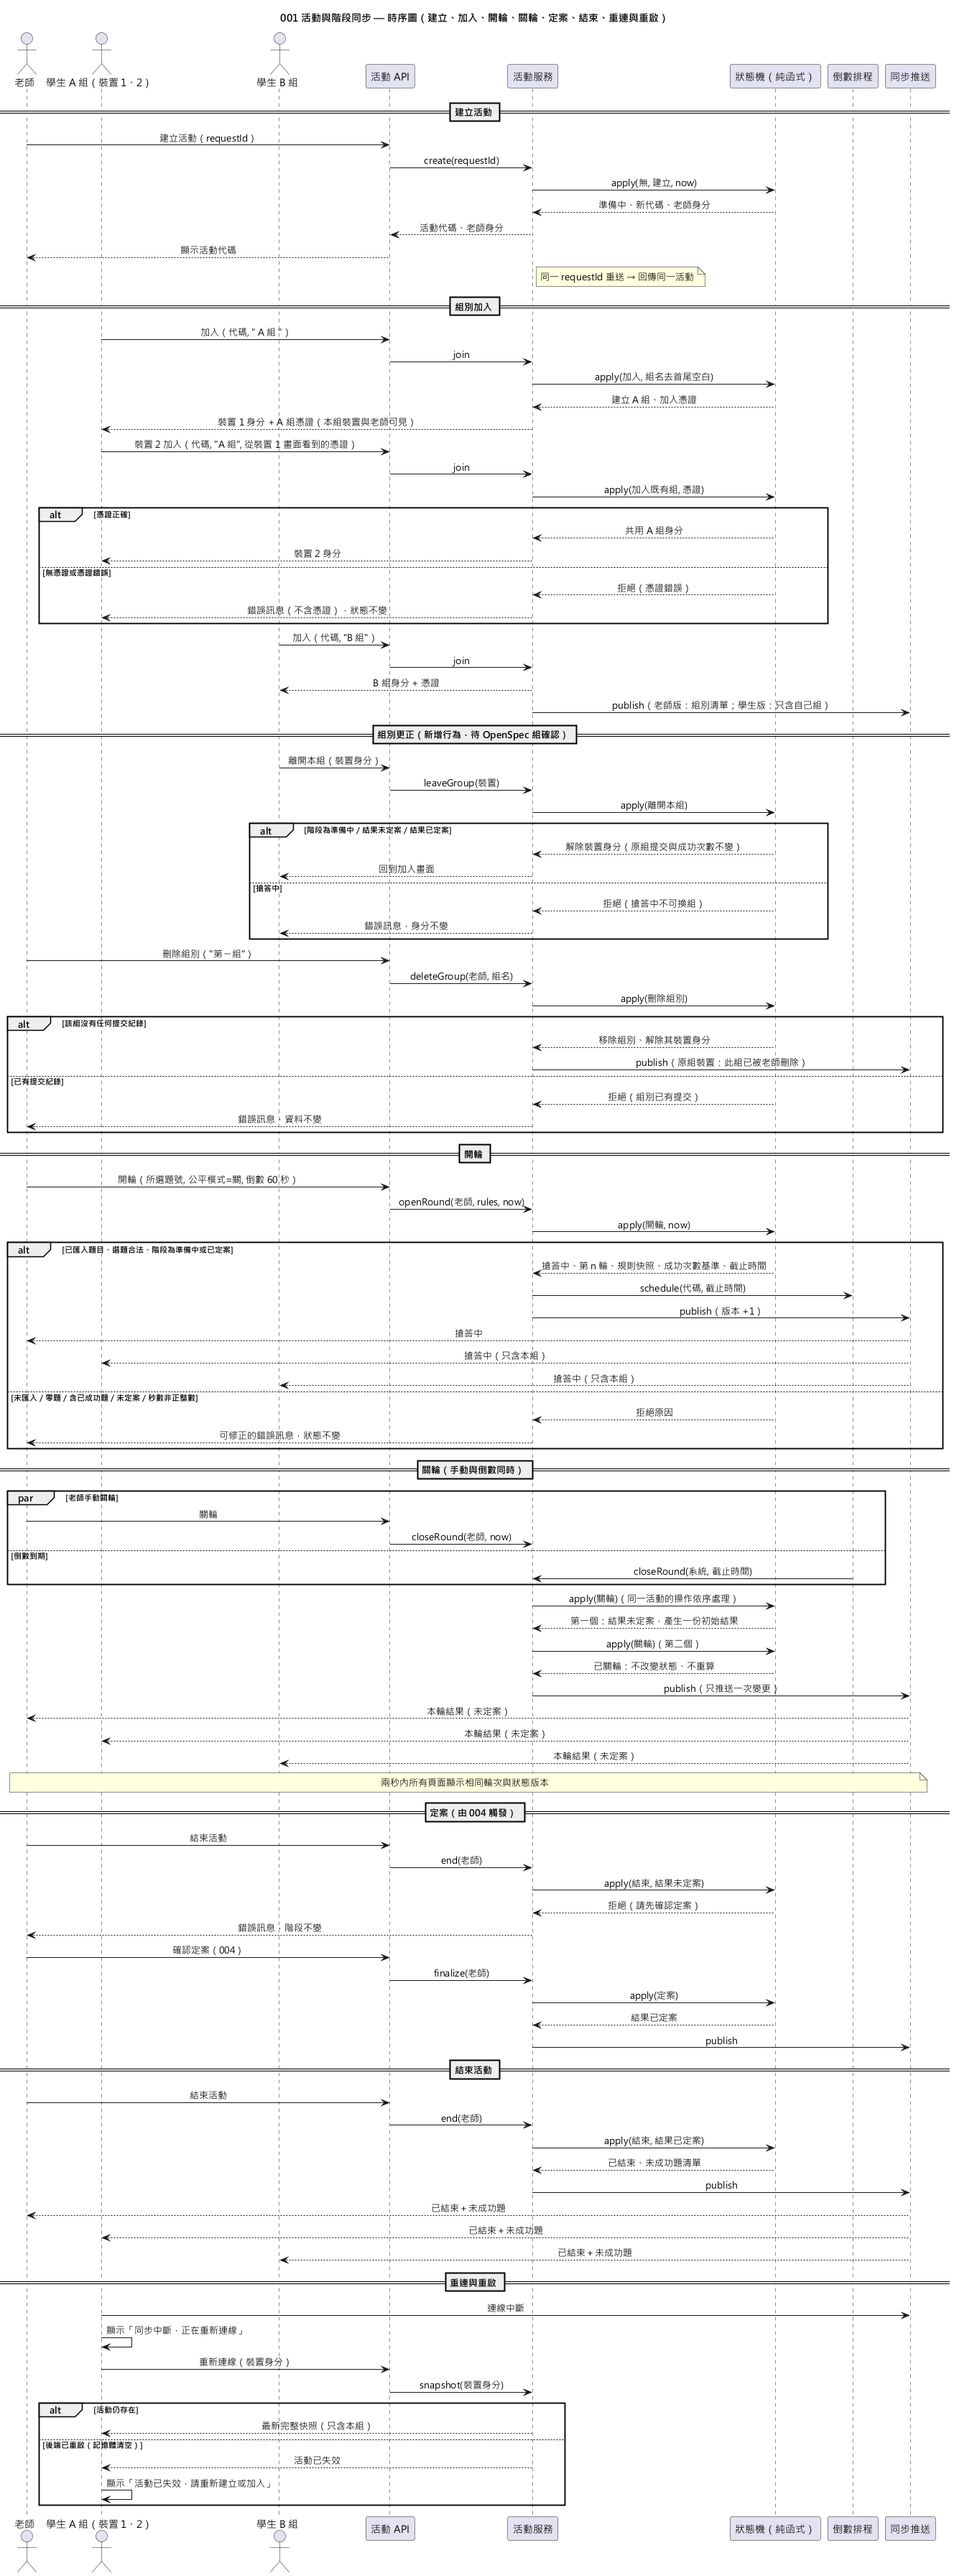
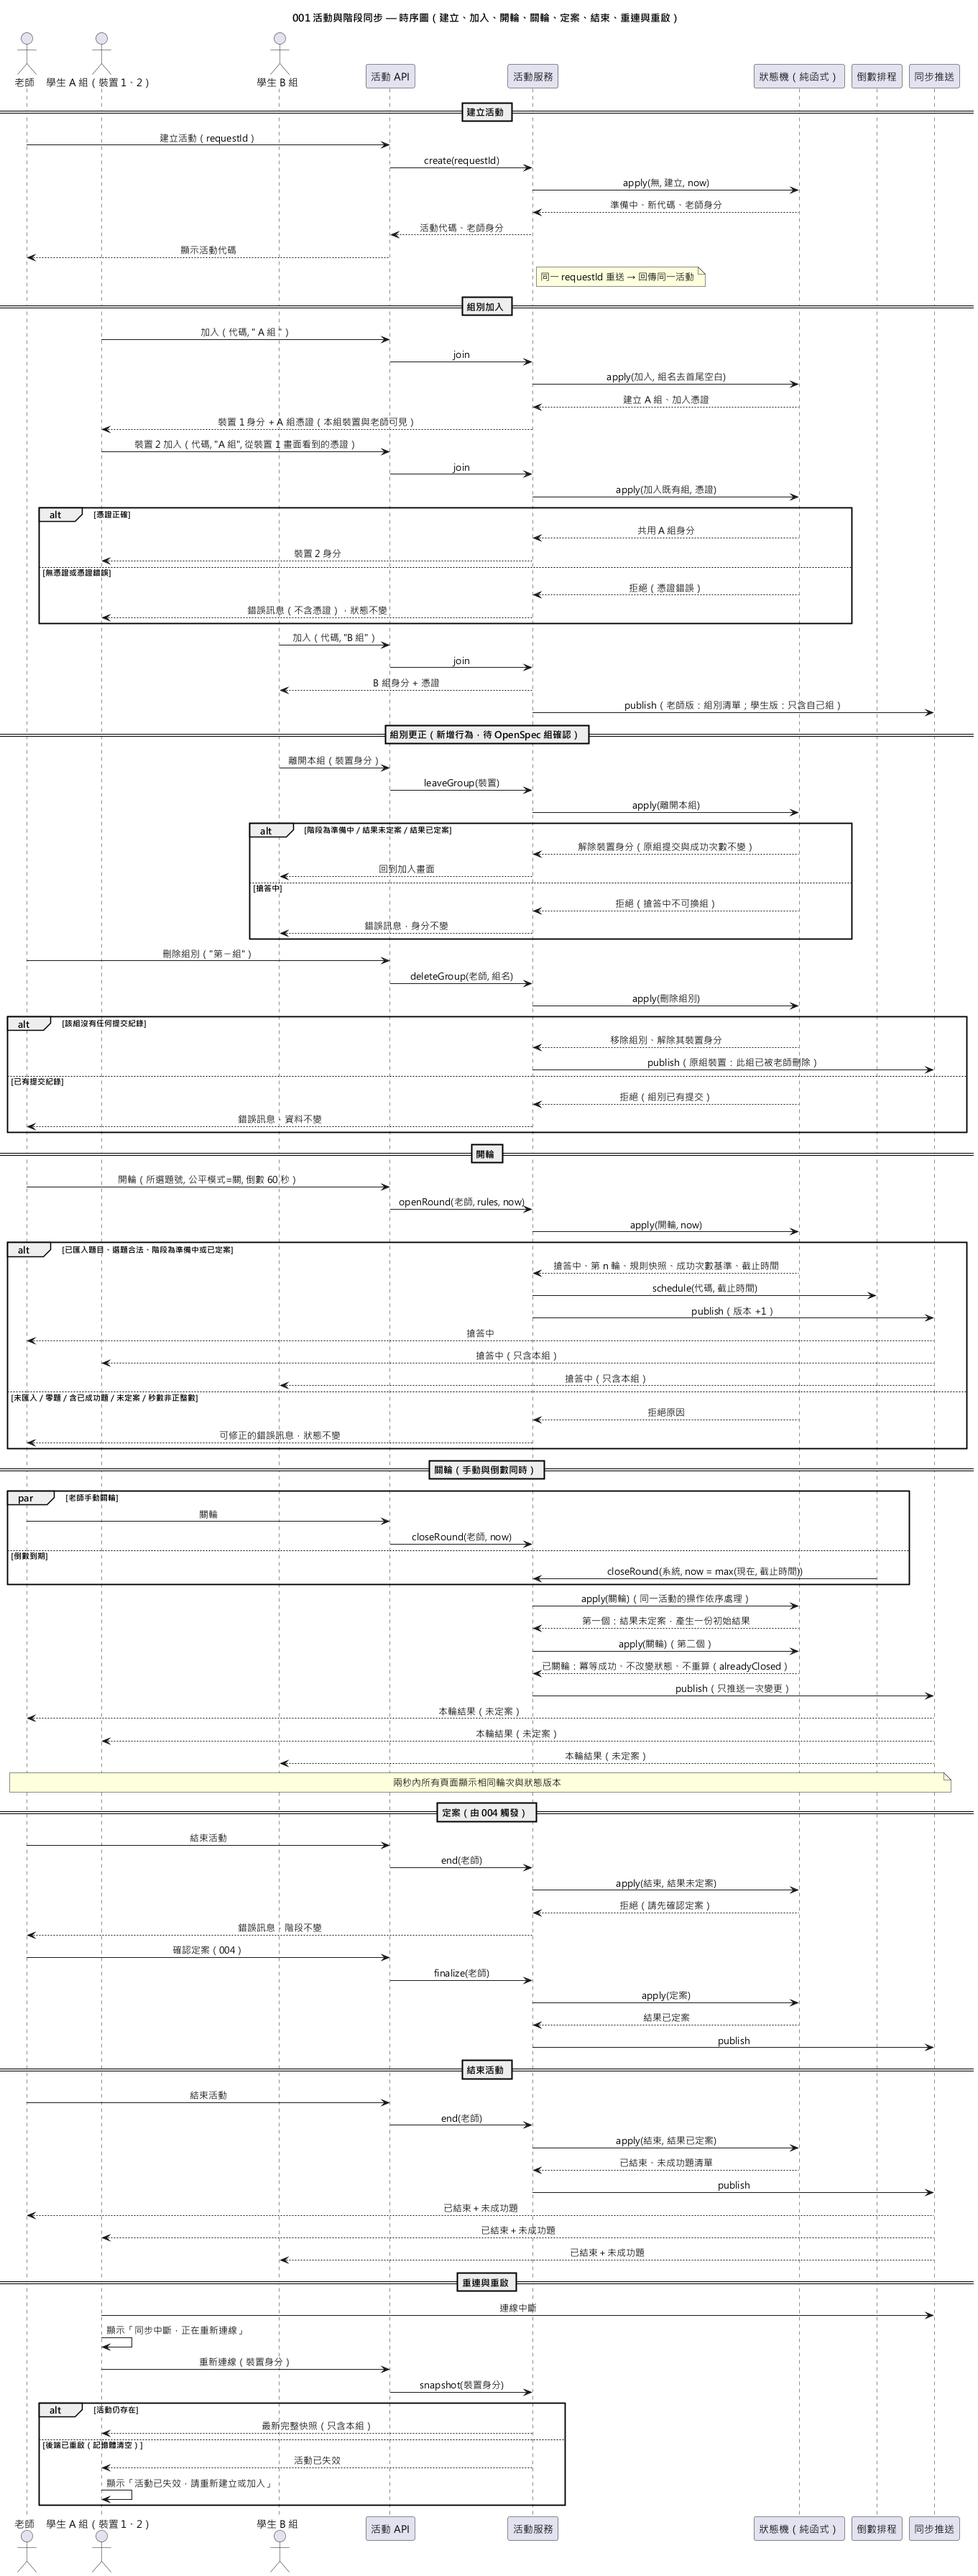
docs: 依 PR #15 審查修正關輪冪等、去重鎖內與倒數 now
- data-model：目前輪次已關時 CloseRound 為冪等成功（alreadyClosed）
- research R6：查表、套用、記錄去重都在同一把鎖內；倒數回呼 now = max(clock.now(), deadline)
- 時序圖同步更新並重新轉出 PNG

diff --git a/specs/001-activity-session/research.md b/specs/001-activity-session/research.md
@@ -132,15 +132,18 @@
 - **單一 process**：uvicorn 只開 1 個 worker，所有活動都在同一個 asyncio 事件迴圈中。狀態只存在記憶體，不能多 process（原則 VII）。
 - **每個活動一把鎖**：每個活動各有一把 `asyncio.Lock`。服務層的每個會改變狀態的操作都依下列順序進行：
   1. 取得鎖。
-  2. 取出目前的 `Activity`（不可變的資料）。
-  3. 呼叫 `ActivityStateMachine.apply(activity, command, now)`。
-  4. 成功時，以新的 `Activity` 取代舊的，並且狀態版本加 1。
-  5. 釋放鎖。
-  6. 推送快照。
+  2. 查詢去重表：同一身分、同一個 `Idempotency-Key` 已處理過時，直接回傳第一次的結果。
+  3. 取出目前的 `Activity`（不可變的資料）。
+  4. 呼叫 `ActivityStateMachine.apply(activity, command, now)`。
+  5. 成功時，以新的 `Activity` 取代舊的，並且狀態版本加 1。
+  6. 記錄去重結果。
+  7. 釋放鎖。
+  8. 推送快照。
+  - 查表、套用、記錄都在同一把鎖內，同一個 key 的並行重送只會套用一次（2026-11-23 依 PR #15 審查第 2 項修正；原本查表在鎖外）。
 - **關輪只一次的雙重保證**：
   1. 鎖保證兩個關輪請求依序執行。
-  2. 狀態機看到 `round.closed == True` 時回傳 `AlreadyClosed`（成功但無變化），版本不加，也不推送。
-- **倒數排程**：到期時以 `close_round(系統, now=clock.now())` 進入同一把鎖，和老師的手動關輪走相同路徑。老師先關輪時，取消排程任務；但即使沒取消成功，第 2 點也能保證不重複關輪。
+  2. 目前輪次已關（`round.closed == True`，階段為結果未定案或結果已定案）時，`CloseRound` 是冪等成功：`changed=False`，版本不加，也不推送；HTTP 回 `alreadyClosed: true`（2026-11-23 依 PR #15 審查第 1 項修正；原本相容表只允許搶答中，已關輪的分支走不到）。
+- **倒數排程**：到期時以 `close_round(系統, now=max(clock.now(), 截止時間))` 進入同一把鎖，和老師的手動關輪走相同路徑。計時器可能比牆上時鐘早幾毫秒觸發，以截止時間當下限，輪次才一定會關閉（2026-11-23 依 PR #15 審查第 3 項修正）。老師先關輪時，取消排程任務；但即使沒取消成功，第 2 點也能保證不重複關輪。
 
 **理由**：
 

diff --git a/specs/001-activity-session/data-model.md b/specs/001-activity-session/data-model.md
@@ -148,10 +148,10 @@
 | `LeaveGroup` | `PREPARING`、`RESULT_PENDING`、`RESULT_FINAL` | 移除該裝置 |
 | `DeleteGroup` | 非終止 | `has_submissions == False` 時，移除組別與其所有裝置 |
 | `OpenRound` | `PREPARING`（已有題目）、`RESULT_FINAL` | `ROUND_OPEN`，新增 `Round` |
-| `CloseRound` | `ROUND_OPEN` | `RESULT_PENDING`，`closed = True`；如果已經關過，回傳成功但沒有變化 |
+| `CloseRound` | `ROUND_OPEN`；目前輪次已關時（`RESULT_PENDING`、`RESULT_FINAL`）視為冪等 | `RESULT_PENDING`，`closed = True`；目前輪次已經關過時，回傳成功但沒有變化（`changed=False`，HTTP `alreadyClosed: true`） |
 | `Finalize` | `RESULT_PENDING` | `RESULT_FINAL`；套用 `outcome`（已成功題、各組成功次數增量） |
 | `EndActivity` | `RESULT_FINAL` | `ENDED` |
 | `CancelActivity` | `PREPARING` | `CANCELLED` |
 | `MarkGroupSubmitted`（003） | `ROUND_OPEN` | 該組 `has_submissions = True` |
 
-**倒數截止**：`System` 送出的 `CloseRound`，只有在 `deadline` 不為 `None` 且 `now >= deadline` 時才生效；否則回傳成功但沒有變化。這是為了防止排程誤觸發。`ActivityStateMachine.is_deadline_passed(round, now)` 是供 003 判斷「截止後才到的提交」用的純函式。
+**倒數截止**：`System` 送出的 `CloseRound`，只有在 `deadline` 不為 `None` 且 `now >= deadline` 時才生效；否則回傳成功但沒有變化。這是為了防止排程誤觸發。服務層的倒數回呼一律以 `now = max(clock.now(), deadline)` 呼叫（研究 R6）。`ActivityStateMachine.is_deadline_passed(round, now)` 是供 003 判斷「截止後才到的提交」用的純函式。
